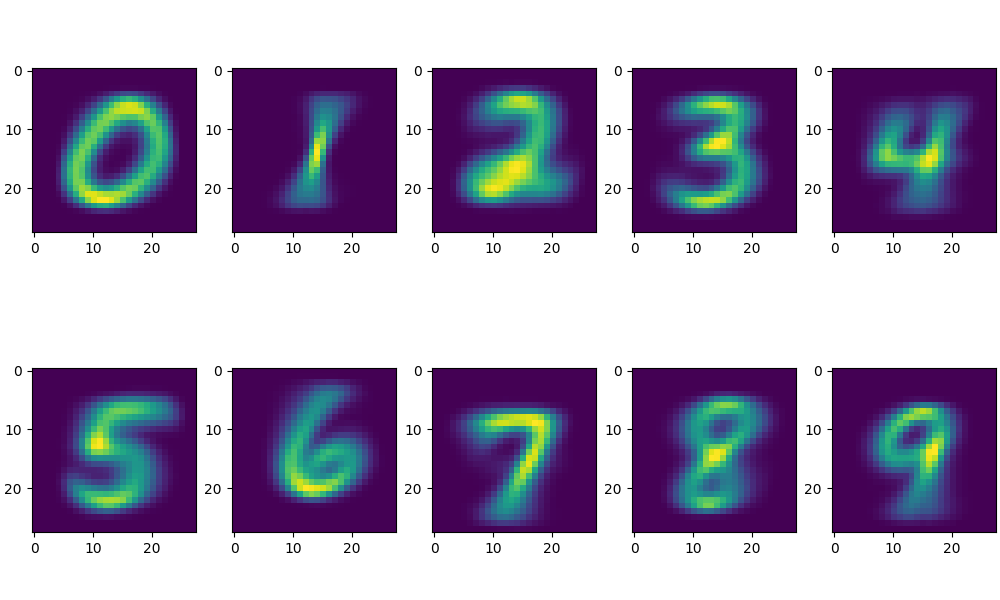
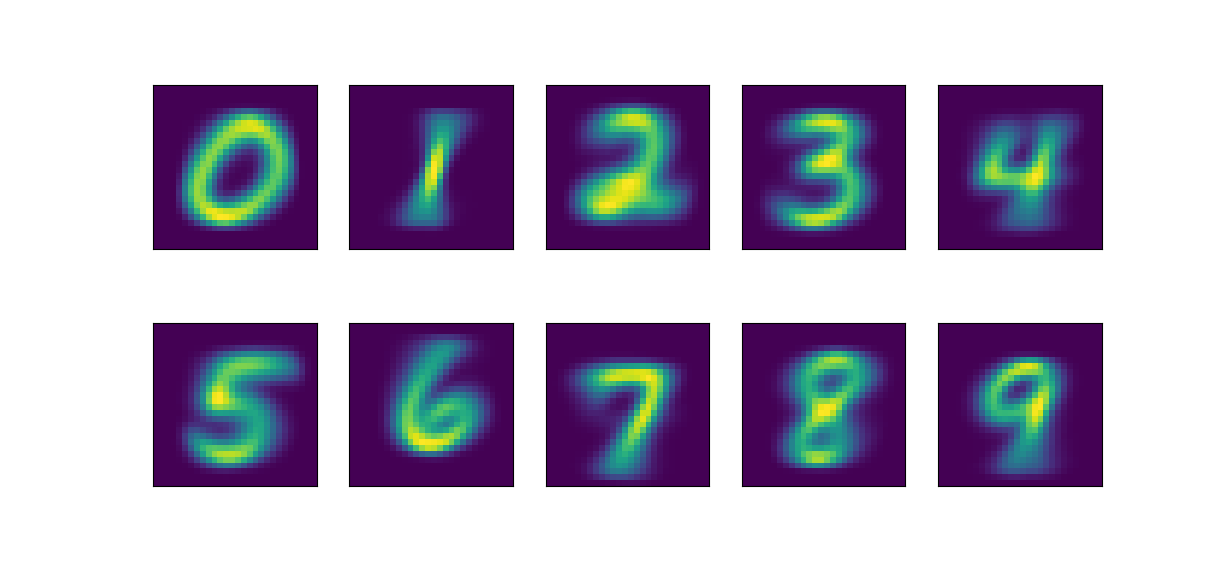
Adding images + readme

diff --git a/main.py b/main.py
@@ -11,11 +11,6 @@ X_train, Y_train, X_test, Y_test = fetch_mnist()
 # X_train, Y_train, X_test, Y_test = fetch_fashionmnist()
 
 
-X_train = (X_train > 122).astype(np.int_)
-
-X_test = (X_test > 122).astype(np.int_)
-
-
 nb = NaiveBayes(num_classes=10)
 MLE_array = nb.fit_MLE(X_train, Y_train)
 
@@ -27,7 +22,7 @@ print(f"Accuracy: {100*score:.2f} %")
 
 nb.visualize_conditional_distributions(estimator="MLE")
 
-MAP_array = nb.fit_MAP(X_train, Y_train, alpha=0.5, beta = 0.5)
+MAP_array = nb.fit_MAP(X_train, Y_train, alpha=0.5, beta=0.5)
 
 preds = nb.predict(X_test, estimator="MAP")
 

diff --git a/get_mnist.py b/get_mnist.py
@@ -19,6 +19,11 @@ def fetch_mnist():
         .astype(np.float32)
     )
     Y_test = parse("datasets/mnist/t10k-labels-idx1-ubyte.gz")[8:]
+
+    X_train = (X_train > 122).astype(np.int_)
+
+    X_test = (X_test > 122).astype(np.int_)
+
     return X_train, Y_train, X_test, Y_test
 
 
@@ -36,4 +41,9 @@ def fetch_fashionmnist():
         .astype(np.float32)
     )
     Y_test = parse("datasets/fashionmnist/t10k-labels-idx1-ubyte.gz")[8:]
+
+    X_train = (X_train > 122).astype(np.int_)
+
+    X_test = (X_test > 122).astype(np.int_)
+
     return X_train, Y_train, X_test, Y_test

diff --git a/NaiveBayes.py b/NaiveBayes.py
@@ -103,7 +103,7 @@ class NaiveBayes:
 
         i = 0
         for ax in axes:
-            ax.imshow((conditional_array[:, i]).reshape(28, 28), cmap = 'bone')
+            ax.imshow((conditional_array[:, i]).reshape(28, 28))
             i += 1
 
         for ax in axes:

diff --git a/Readme.md b/Readme.md
@@ -1,0 +1,14 @@
+
+# Naive Bayes - MNIST
+
+Short example fitting a Naive Bayes classifier to binarized MNIST data with visalization of class conditional densities. In this example, every pixel value is either a 0 or 1. For each class from 0 to 9, we are then estimating $\theta_{dc}$ for a Bernoulli distribution where d is the pixel number and c is the class. 
+
+## Bernoulli class conditional densities - MLE
+
+Test set accuracy: 84.39%. 
+
+## Bernoulli class conditional densities - MAP
+
+Test set accuracy: 84.44%. Fit with a Beta(0.5,0.5) prior.
+
+
